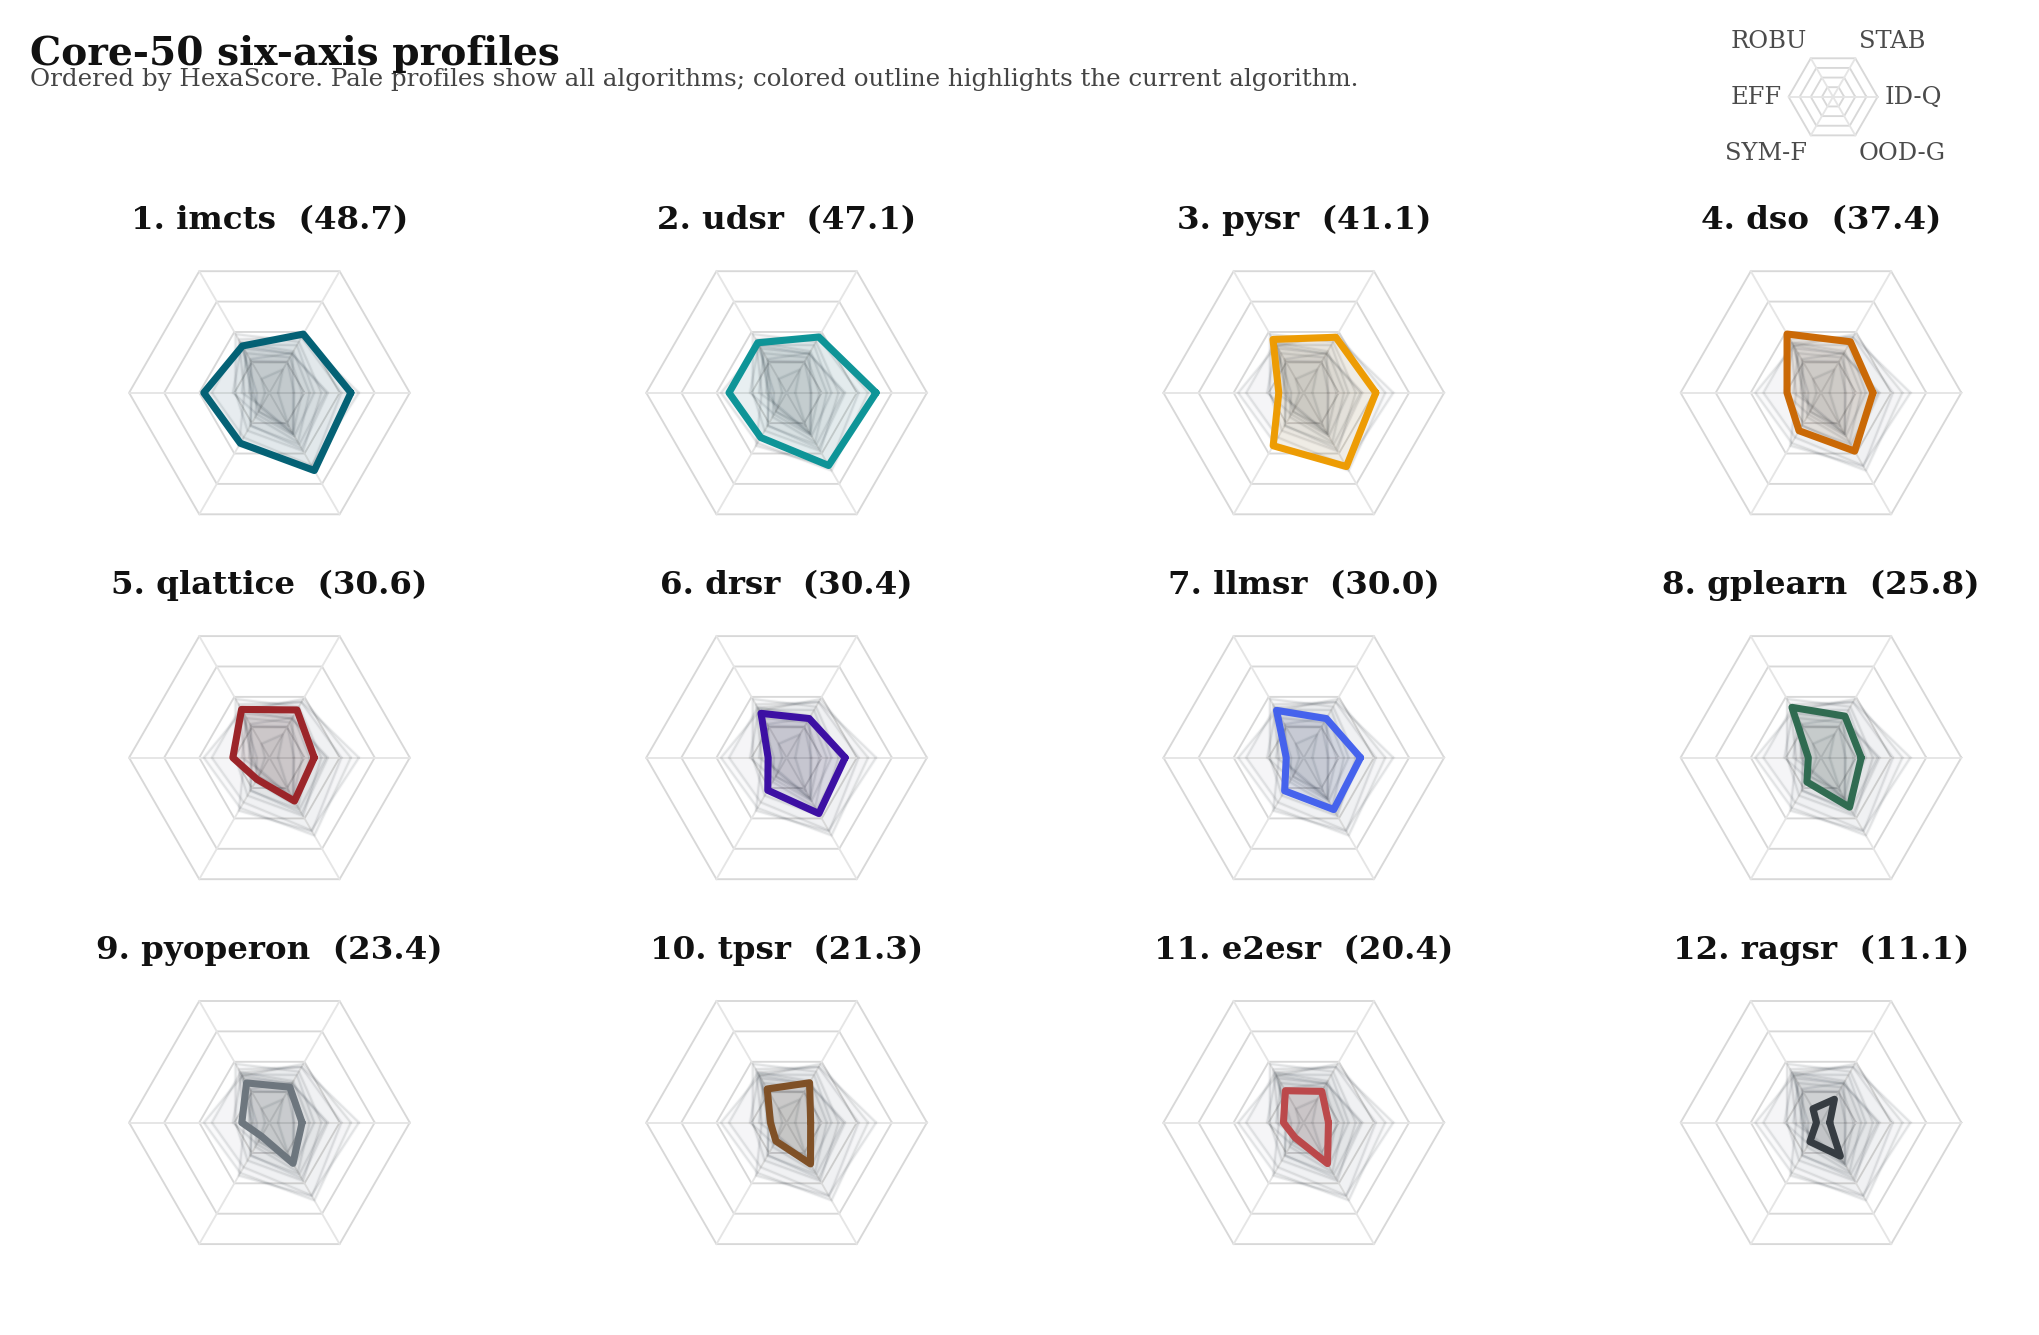
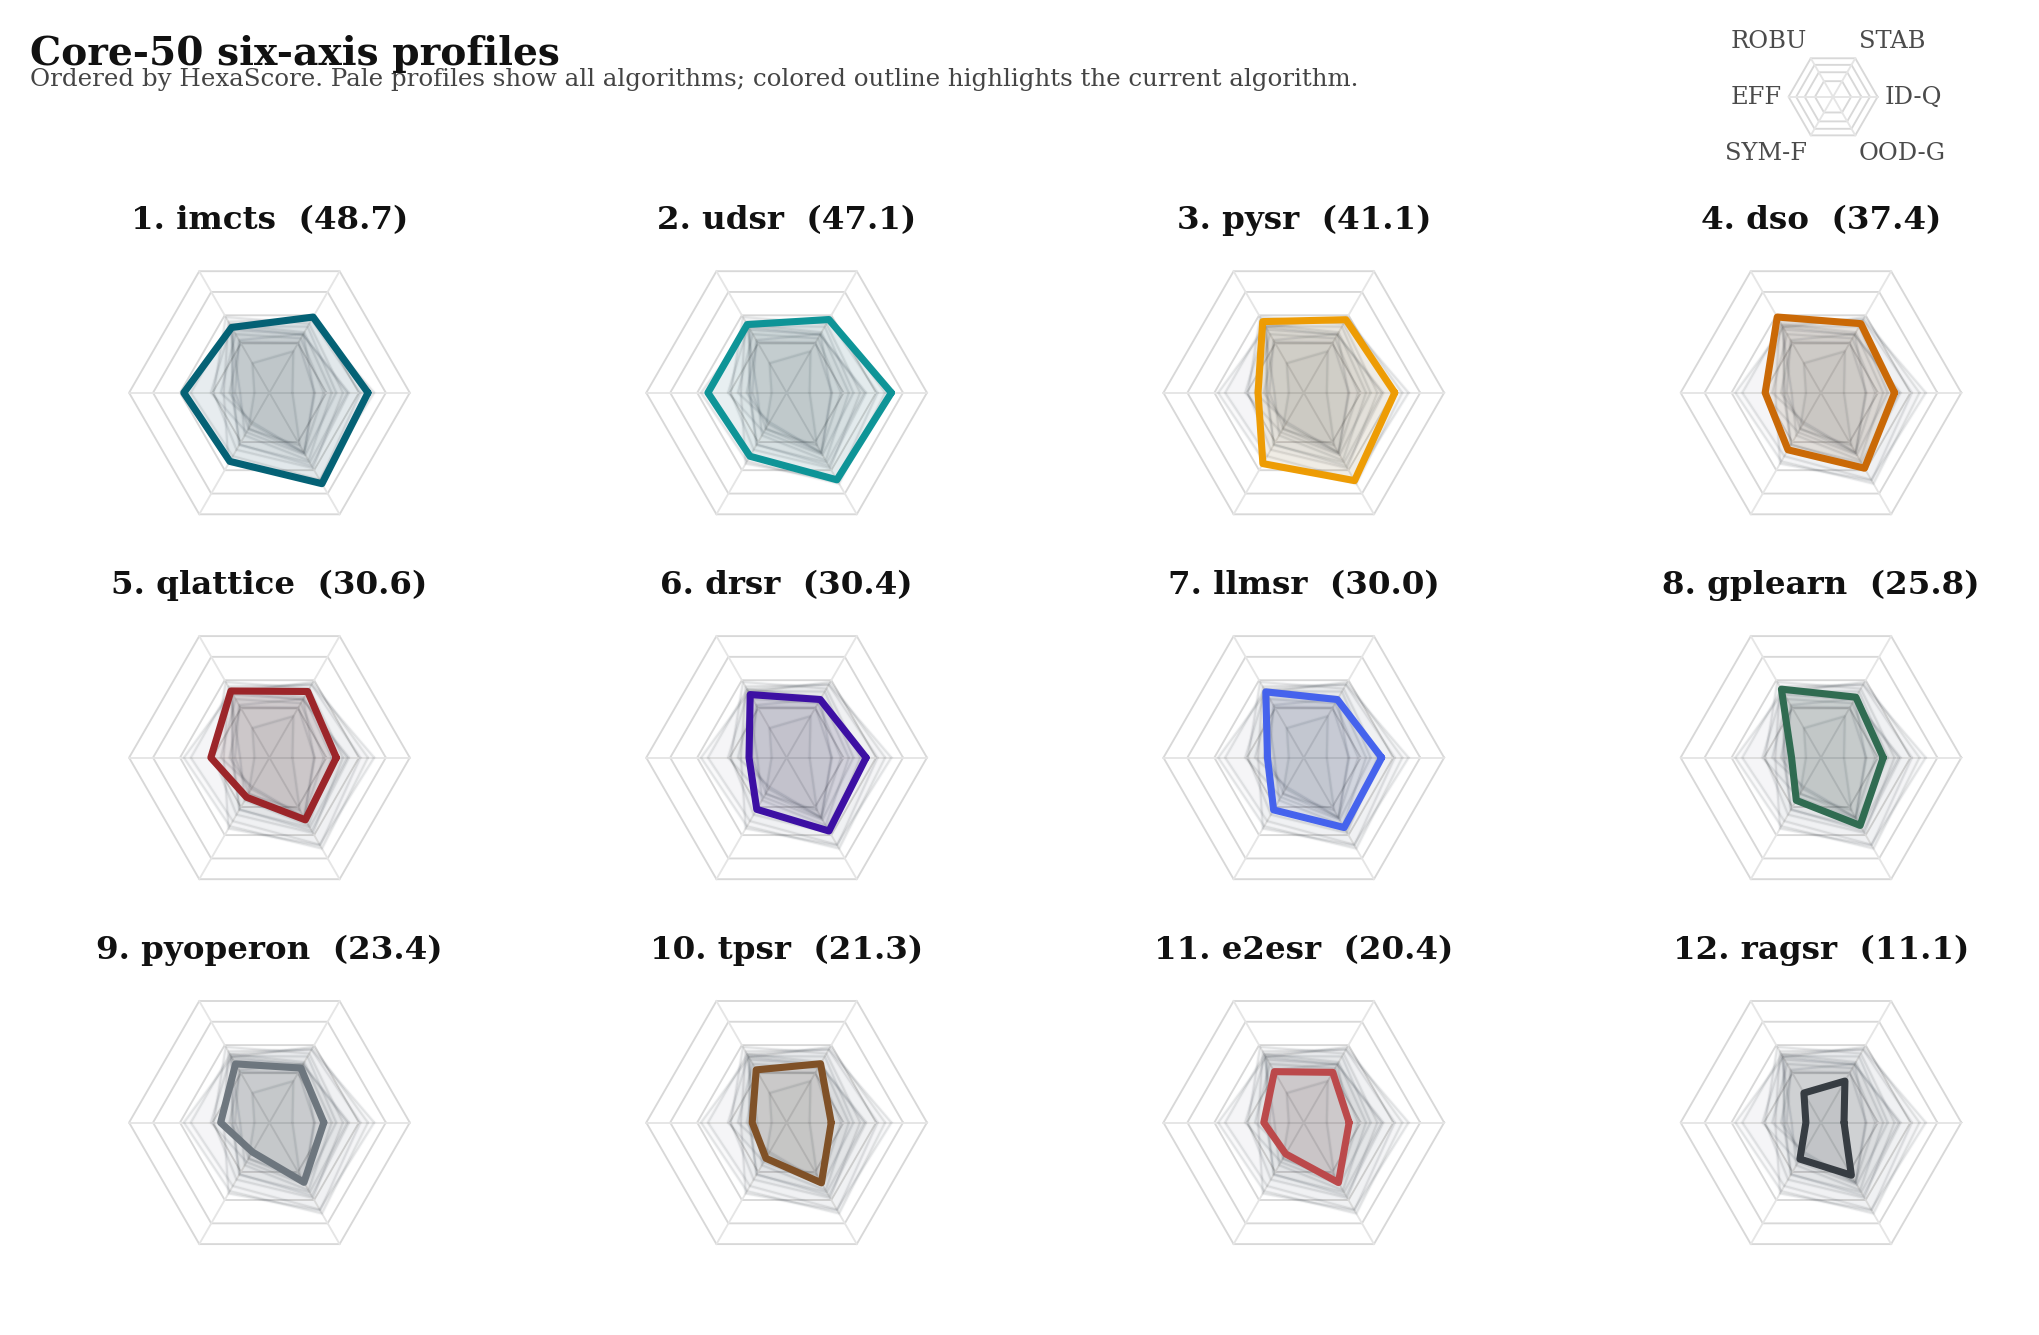
[update] 对齐六轴图非线性网格尺度

diff --git a/check/plot_hexagon_small_multiples_neurips.py b/check/plot_hexagon_small_multiples_neurips.py
@@ -27,6 +27,8 @@ PAPER_IMGS = ROOT / "paper/Paper-SRInfra/imgs"
 AXES = ["ID_Q", "OOD_G", "SYM_F", "EFF", "ROB", "STAB"]
 AXIS_LABELS = ["ID-Q", "OOD-G", "SYM-F", "EFF", "ROBU", "STAB"]
 SCORE_COL = "HexaScore_formal_with_ROB"
+RADIAL_GAMMA = 0.65
+GRID_SCORE_LEVELS = [0.25, 0.50, 0.75, 1.00]
 HIGHLIGHT_COLORS = [
     "#005f73",
     "#0a9396",
@@ -63,8 +65,14 @@ def set_neurips_style() -> None:
     )
 
 
+def scale_radius(score_fraction):
+    """把 0-1 分数映射到视觉半径；网格和 profile 必须共用同一尺度。"""
+    return np.power(np.clip(score_fraction, 0.0, 1.0), RADIAL_GAMMA)
+
+
 def polygon_points(values: np.ndarray, angles: np.ndarray) -> tuple[np.ndarray, np.ndarray]:
-    radius = np.clip(values / 100.0, 0.0, 1.0)
+    # 用单调幂缩放改善小多图可读性：中低分不会全部挤在中心。
+    radius = scale_radius(values / 100.0)
     x = radius * np.cos(angles)
     y = radius * np.sin(angles)
     return np.r_[x, x[0]], np.r_[y, y[0]]
@@ -73,7 +81,8 @@ def polygon_points(values: np.ndarray, angles: np.ndarray) -> tuple[np.ndarray, 
 def draw_grid(ax: plt.Axes, angles: np.ndarray, *, show_axis_labels: bool = False) -> None:
     grid_color = "#d8d8d8"
     spoke_color = "#e5e5e5"
-    for r in [0.25, 0.50, 0.75, 1.00]:
+    for score_level in GRID_SCORE_LEVELS:
+        r = scale_radius(score_level)
         x = r * np.cos(angles)
         y = r * np.sin(angles)
         ax.plot(np.r_[x, x[0]], np.r_[y, y[0]], color=grid_color, lw=0.45, zorder=0)
@@ -207,6 +216,9 @@ def render_small_multiples(
         "background_alpha": 0.095,
         "highlight_linewidth": 1.70,
         "axis_labels": "shared_once",
+        "radial_scale": f"r=(score/100)^{RADIAL_GAMMA}",
+        "grid_score_levels": [int(level * 100) for level in GRID_SCORE_LEVELS],
+        "grid_radius_levels": [float(scale_radius(level)) for level in GRID_SCORE_LEVELS],
     }
     return manifest
 
